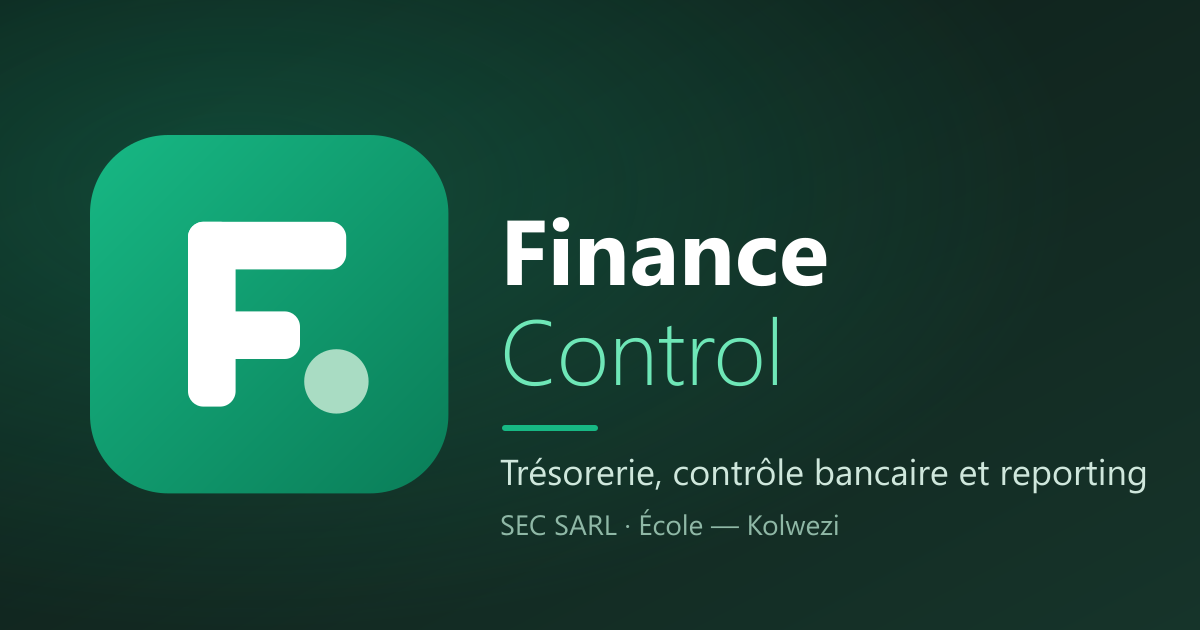
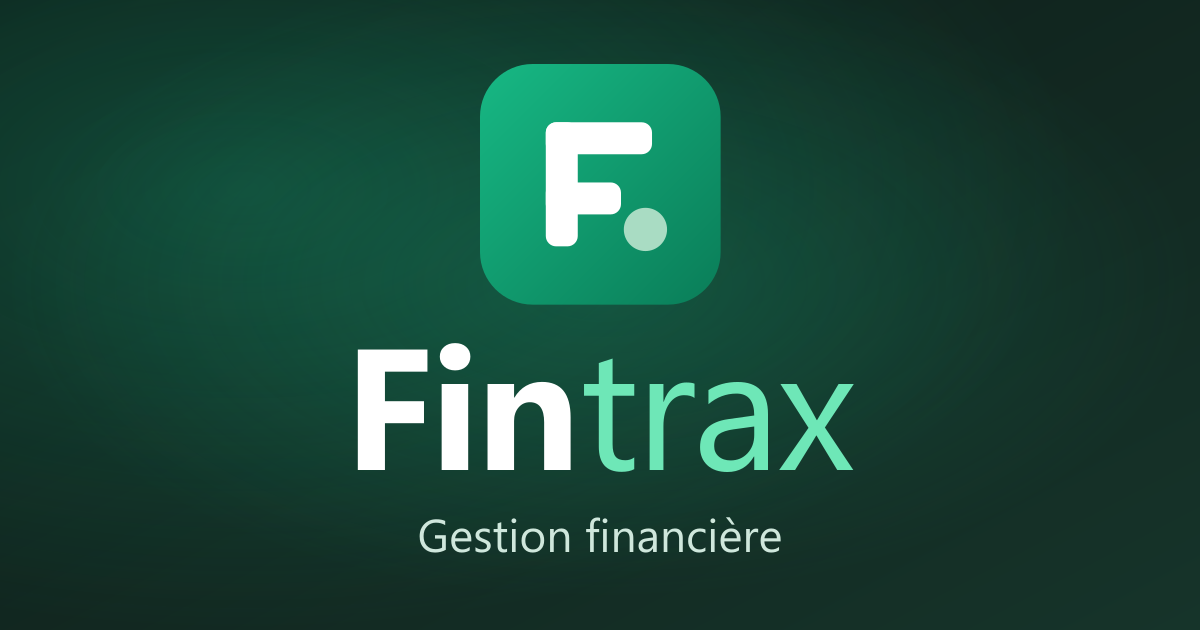
Rename the app to Fintrax and make the share image readable as a square thumbnail
- Brand name in login pages, sidebar, page title and share metadata, email subjects and sender, PDF/Excel metadata, 2FA issuer, CLAUDE.md
- Share image recomposed around a centered logo and name so square crops (WhatsApp) stay legible

Changed region(s): [[0.0617, 0.0905, 0.9558, 0.7841], [0.3392, 0.8143, 0.7092, 0.8746]]

diff --git a/src/server/pdf.ts b/src/server/pdf.ts
@@ -21,7 +21,7 @@ export function pdfSafe(text: string): string {
 export const moneyPlain = (value: string, currency: 'USD' | 'CDF') => pdfSafe(formatMoney(value, currency));
 
 export function newPdf(): Doc {
-  return new PDFDocument({ size: 'A4', margin: MARGIN, bufferPages: true, info: { Producer: 'SEC Finance Control' } });
+  return new PDFDocument({ size: 'A4', margin: MARGIN, bufferPages: true, info: { Producer: 'Fintrax' } });
 }
 
 export function toBuffer(doc: Doc): Promise<Buffer> {
@@ -35,7 +35,7 @@ export function toBuffer(doc: Doc): Promise<Buffer> {
 }
 
 export function drawHeader(doc: Doc, h: { entityName?: string; title: string; number?: string; subtitle?: string }) {
-  doc.fillColor(GREEN).font('Helvetica-Bold').fontSize(16).text(pdfSafe(h.entityName ?? 'SEC Finance Control'));
+  doc.fillColor(GREEN).font('Helvetica-Bold').fontSize(16).text(pdfSafe(h.entityName ?? 'Fintrax'));
   doc.moveDown(0.3).fillColor('#14221e').fontSize(14).text(pdfSafe(h.title));
   const meta = [h.number ? `N° ${h.number}` : null, h.subtitle].filter(Boolean).join('  ·  ');
   if (meta) doc.moveDown(0.2).fillColor(MUTED).font('Helvetica').fontSize(10).text(pdfSafe(meta));

diff --git a/src/app/(auth)/login/page.tsx b/src/app/(auth)/login/page.tsx
@@ -82,7 +82,7 @@ export default function LoginPage() {
 
         <div className="relative flex items-center gap-3">
           <BrandMark className="h-11 w-11 text-lg" />
-          <span className="text-xl font-bold">Finance <span className="font-light text-emerald-300">Control</span></span>
+          <span className="text-xl font-bold">Fin<span className="font-light text-emerald-300">trax</span></span>
         </div>
 
         <div className="relative max-w-lg">
@@ -112,7 +112,7 @@ export default function LoginPage() {
         <div className="relative w-full max-w-sm">
           <div className="mb-6 text-center lg:hidden">
             <BrandMark className="mx-auto mb-3 h-12 w-12 text-xl" />
-            <h1 className="text-2xl font-bold text-white">Finance <span className="font-light text-emerald-300">Control</span></h1>
+            <h1 className="text-2xl font-bold text-white">Fin<span className="font-light text-emerald-300">trax</span></h1>
             <p className="mt-1 text-sm text-white/60">Trésorerie, contrôle bancaire et reporting</p>
           </div>
 

diff --git a/src/server/email.ts b/src/server/email.ts
@@ -6,7 +6,7 @@ import { after } from 'next/server';
  * Envoi d'e-mails via Resend (API HTTP, aucune dépendance). Sans RESEND_API_KEY, l'envoi est désactivé :
  * l'application fonctionne normalement avec ses seules notifications internes.
  *
- * Variables : RESEND_API_KEY, EMAIL_FROM (ex. « Finance Control <noreply@votre-domaine.com> », domaine vérifié chez Resend).
+ * Variables : RESEND_API_KEY, EMAIL_FROM (ex. « Fintrax <noreply@votre-domaine.com> », domaine vérifié chez Resend).
  */
 export interface Mail {
   to: string;
@@ -24,7 +24,7 @@ async function deliver(mail: Mail): Promise<void> {
       method: 'POST',
       headers: { Authorization: `Bearer ${process.env.RESEND_API_KEY}`, 'Content-Type': 'application/json' },
       body: JSON.stringify({
-        from: process.env.EMAIL_FROM ?? 'Finance Control <onboarding@resend.dev>',
+        from: process.env.EMAIL_FROM ?? 'Fintrax <onboarding@resend.dev>',
         to: [mail.to],
         subject: mail.subject,
         text: mail.text,

diff --git a/src/app/layout.tsx b/src/app/layout.tsx
@@ -11,10 +11,10 @@ const description = 'Trésorerie, contrôle bancaire et reporting pour SEC SARL 
 // fichiers de src/app. metadataBase rend leurs adresses absolues, ce que WhatsApp, Facebook ou Slack exigent.
 export const metadata: Metadata = {
   metadataBase: new URL(process.env.SITE_URL ?? 'https://www.fintrax.site'),
-  title: 'SEC Finance Control',
+  title: 'Fintrax',
   description,
-  openGraph: { title: 'SEC Finance Control', description, siteName: 'SEC Finance Control', locale: 'fr_FR', type: 'website' },
-  twitter: { card: 'summary_large_image', title: 'SEC Finance Control', description },
+  openGraph: { title: 'Fintrax', description, siteName: 'Fintrax', locale: 'fr_FR', type: 'website' },
+  twitter: { card: 'summary_large_image', title: 'Fintrax', description },
 };
 
 export const viewport: Viewport = { themeColor: '#0e9f6e' };

diff --git a/src/server/password-reset.ts b/src/server/password-reset.ts
@@ -29,7 +29,7 @@ export async function requestPasswordReset(email: string): Promise<void> {
   const base = process.env.APP_URL?.split(/[\s,;]+/).filter(Boolean).at(-1)?.replace(/\/$/, '') ?? '';
   sendEmail({
     to: user.email,
-    subject: 'Finance Control — Réinitialisation de votre mot de passe',
+    subject: 'Fintrax — Réinitialisation de votre mot de passe',
     text:
       `Une réinitialisation de mot de passe a été demandée pour votre compte.\n\n` +
       `Ouvrez ce lien (valable 1 heure, à usage unique) :\n${base}/reinitialiser-mot-de-passe?token=${token}\n\n` +

diff --git a/src/server/notifications.ts b/src/server/notifications.ts
@@ -22,7 +22,7 @@ export async function notifyUsers(db: Db, userIds: string[], input: NotifyInput)
   const base = process.env.APP_URL?.split(/[\s,;]+/).filter(Boolean).at(-1)?.replace(/\/$/, '') ?? '';
   const link = input.href ? `\n\nOuvrir : ${base}${input.href}` : '';
   for (const u of users) {
-    queueEmail({ to: u.email, subject: `Finance Control — ${input.title}`, text: `${input.title}\n\n${input.body}${link}` });
+    queueEmail({ to: u.email, subject: `Fintrax — ${input.title}`, text: `${input.title}\n\n${input.body}${link}` });
   }
 }
 

diff --git a/src/components/sidebar.tsx b/src/components/sidebar.tsx
@@ -25,7 +25,7 @@ export function Sidebar({ items }: { items: SidebarItem[] }) {
   return (
     <aside className="hidden w-60 shrink-0 flex-col bg-sidebar p-4 text-sidebar-foreground md:flex">
       <div className="mb-6 px-2 text-lg font-bold text-white">
-        SEC <span className="font-light text-primary-soft">Finance</span>
+        Fin<span className="font-light text-primary-soft">trax</span>
       </div>
       <nav className="flex flex-col gap-1">
         {items.map(({ href, label, icon }) => {

diff --git a/src/server/modules/reports/render.ts b/src/server/modules/reports/render.ts
@@ -67,7 +67,7 @@ function fillSheet(ws: ExcelJS.Worksheet, s: Section) {
 /** Excel : une feuille par section, montants en cellules numériques (format #,##0.00), devise en colonne. */
 export async function renderXlsx(d: TabularDoc): Promise<Buffer> {
   const wb = new ExcelJS.Workbook();
-  wb.creator = 'SEC Finance Control';
+  wb.creator = 'Fintrax';
   wb.created = d.generatedAt;
   const used = new Set<string>();
   const cover = wb.addWorksheet(sheetName('Résumé', used));

diff --git a/src/server/totp.ts b/src/server/totp.ts
@@ -8,7 +8,7 @@ import { AppError } from './errors';
 import type { CurrentUser, RequestMeta } from './auth';
 import { twoFactorDisabled } from '@/lib/totp-policy';
 
-const ISSUER = 'SEC Finance Control';
+const ISSUER = 'Fintrax';
 const STEP_UP_MS = 5 * 60 * 1000;
 
 export function verifyCode(secret: string, code: string): boolean {

diff --git a/CLAUDE.md b/CLAUDE.md
@@ -1,6 +1,6 @@
-# CLAUDE.md — SEC Finance Control
+# CLAUDE.md — Fintrax
 
-Tu travailles sur **SEC Finance Control** : une plateforme de gestion financière, de trésorerie, de contrôle bancaire et de reporting pour **deux entités indépendantes** — **SEC SARL** et **l'École** (Kolwezi, RDC).
+Tu travailles sur **Fintrax** (anciennement « SEC Finance Control ») : une plateforme de gestion financière, de trésorerie, de contrôle bancaire et de reporting pour **deux entités indépendantes** — **SEC SARL** et **l'École** (Kolwezi, RDC).
 
 La spécification fonctionnelle et technique complète est dans **`docs/SPEC.md`**. Lis la section concernée avant chaque tâche. Ce fichier-ci contient les règles qui s'appliquent tout le temps.
 
